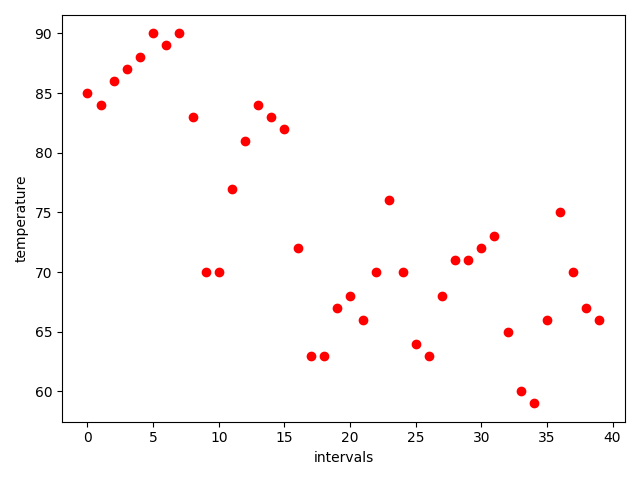
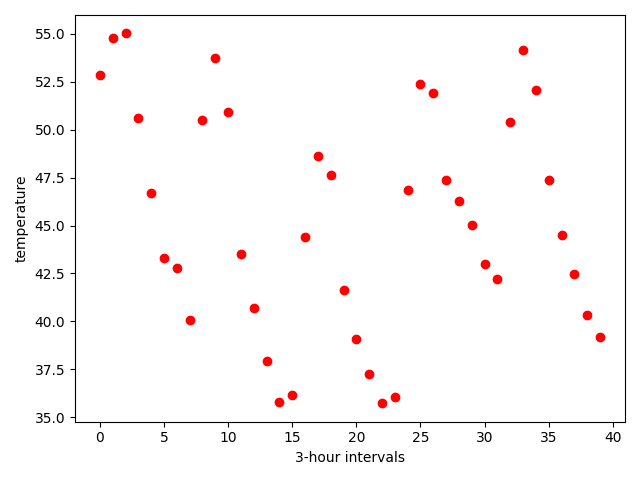
finished home display of weather

diff --git a/app/templates/home.html b/app/templates/home.html
@@ -12,15 +12,36 @@
               }
       </style>
   </head>
-  <body>
-    Welcome {{username}}
-    <ul class="flex bg-red-100 space-x-10 h-11 items-center">
-        <li><a class="flex hover:bg-green-100 p-3" href="/weather"> current weather <br></a></li>
+  <div>
+    
+  </div>
+  <body class="font-mono bg-blue-100">
+    <ul class="flex bg-indigo-200 space-x-10 h-12 items-center">
+        <li><a class="bg-green-100 flex hover:bg-green-100 p-3" href="/"> current weather <br></a></li>
         <li><a class="flex hover:bg-green-100 p-3" href="/history"> weather history <br> </a></li>
         <li><a class="flex hover:bg-green-100 p-3" href="/earthquake"> earthquake map<br></a></li>
         <li><a class="flex hover:bg-green-100 p-3" href="/user_history"> {{username}}'s request history </a></li>
         <li><a class="flex hover:bg-green-100 p-3" href="/logout">logout</a></li>
     </ul>
-    <img src="static/goo.png" alt="graph">
+    <h1 class="p-2 bg-indigo-300">Welcome, {{username}}</h1>
+    <div class="relative inline-block text-left">
+      <div class="group">
+        <button type="button" class="bg-stone-300 rounded-xl inline-flex justify-center item-center w-full m-2 px-4 py-2 hover:bg-gray-400">Weather Detail</button>
+        <div class="absolute left-0 w-40 mt-1 bg-green-100 divide-y divide-gray-100 rounded-xl opacity-0 invisible group-hover:opacity-100 group-hover:visible transition duration-300">
+          <div class="py-1">
+            <a href="/" class="block px-4 py-2 text-sm text-gray-700 hover:bg-green-200">5-day forecast</a>
+            <a href="/humidity" class="block px-4 py-2 text-sm text-gray-700 hover:bg-green-200">Humidity</a>
+            <a href="/percipitation" class="block px-4 py-2 text-sm text-gray-700 hover:bg-green-200">Percipitation</a>
+          </div>
+        </div>
+      </div>
+    </div>
+    <p class="mx-7 my-3 p-3 box-border inline-block bg-gray-300 rounded-xl">{{ option }} for {{ place }}</p>
+    <div class="flex justify-center">
+      <img class="border-4 border-stone-300" src="{{ img_link }}" alt="graph">
+    </div>
+    
+
+    <a href="/new_city"><button class="m-2 box-border p-2 border-3 bg-slate-100 rounded-xl hover:bg-fuchsia-300" type="submit">Enter New City</button></a>
   </body>
 </html>

diff --git a/app/templates/registration.html b/app/templates/registration.html
@@ -22,7 +22,7 @@
         {% endif %}
         {% endwith %}
         <div class= "h-screen flex items-center justify-center">
-          <div class="rounded-md box border h-50 w-50 p-4 bg-stone-300 border-20">
+          <div class="rounded-md box border h-50 w-50 p-4 bg-indigo-200 border-20">
             <form action="/auth_registration" method="POST">
               <div class="flex flex-col space-y-2">
                 <label for="username">Username:</label>

diff --git a/app/templates/login.html b/app/templates/login.html
@@ -22,7 +22,7 @@
         {% endif %}
         {% endwith %}
         <div class= "h-screen flex items-center justify-center">
-          <div class="rounded-md box border h-50 w-50 p-4 bg-stone-300 border-20">
+          <div class="rounded-md box border h-50 w-50 p-4 bg-indigo-200 border-20">
             <form action="/auth_login" method="POST">
               <div class="flex flex-col space-y-2">
                 <label for="username">Username:</label>

diff --git a/app/__init__.py b/app/__init__.py
@@ -2,7 +2,7 @@
 # SoftDev
 # P01: ArRESTed Development
 # 2024-12-17
-# Time Spent: x hours
+# Time Spent: alot
 
 import random
 import os
@@ -16,6 +16,7 @@ import json
 import matplotlib
 matplotlib.use('Agg')
 import matplotlib.pyplot as plt
+import plot
 
 DB_FILE = "db.py"
 app = Flask(__name__)
@@ -35,7 +36,7 @@ def home():
         print(session['lon'])
         print(session['lat'])
 
-        #generate plot
+        #populate db
         beegFile = APIs.fetch_openweather(session['lat'], session['lon'])
         weatherData = beegFile['list']
         db.resetWeather()
@@ -43,19 +44,12 @@ def home():
         for row in weatherData:
             db.logWeather(num, session['username'], session['place'], session['lat'], session['lon'], float(row['main']['temp']), float(row['main']['humidity']), row['weather'][0]['main'], float(row['wind']['speed']))
             num+=1
-        plt.figure()
-        a = db.getWeather()
-        for row in a:
-            x = row[0]
-            y = row[5]
-            plt.plot(x,y,'ro-')
-        plt.xlabel("intervals")
-        plt.ylabel("temperature")
-        plt.tight_layout()
+        
+        #generates plots
+        plot.forecast()
 
-        # plt.savefig('static/goo.png')
         print(db.getWeather())
-        return render_template("home.html", username = session['username'])
+        return render_template("home.html", username = session['username'], option="5-day forecast", place = session['place'], img_link="static/goo.png")
     else:
         return redirect("/login")
 #In home, if you receive some input, it should redirect into /view_city page
@@ -101,7 +95,7 @@ def entry():
             session['place'] = city_detail[0]['name']
             session['lat'] = float(city_detail[0]['lat'])
             session['lon'] = float(city_detail[0]['lon'])
-            return render_template("home.html", username = session['username'])
+            return render_template("home.html", username = session['username'], place = session['place'])
         else:
             #if there are multiple cities with same name
             all_city = ""
@@ -172,6 +166,14 @@ def logout():
     session.pop('place', None)
     return redirect("/login")
 
+@app.route("/new_city")
+def new_city():
+    session.pop('place', None)
+    session.pop('lat', None)
+    session.pop('lon', None)
+    return redirect("/entry")
+
+"""
 @app.route("/weather")
 def weather():
     '''
@@ -193,7 +195,7 @@ def weather():
     a = db.getWeather()
     for row in a:
         x = row[0]
-        y = row[5]
+        y = row[4]
         plt.plot(x,y,'ro-')
     plt.xlabel("intervals")
     plt.ylabel("temperature")
@@ -201,8 +203,8 @@ def weather():
 
     plt.savefig('static/goo.png')
     print(db.getWeather())
-    return render_template("view.html")
-
+    return render_template("view.html", place = session['place'])
+"""
 
 # # This should contain a button to redirect into /history page
 @app.route("/history")
@@ -213,6 +215,18 @@ def history():
 @app.route("/user_history")
 def user_history():
     return render_template('user_history.html')
+
+@app.route("/humidity")
+def humidity():
+    plot.humidity()
+    return render_template("home.html", username = session['username'], option="5-day humidity", place = session['place'], img_link="static/foo.png")
+
+@app.route("/percipitation")
+def percipitation():
+    plot.percipitation()
+    return render_template("home.html", username = session['username'], option="5-day percipitation", place = session['place'], img_link="static/boo.png")
+
+
 
 if __name__ == '__main__':
     app.debug = True

diff --git a/app/plot.py b/app/plot.py
@@ -1,0 +1,40 @@
+import matplotlib
+matplotlib.use('Agg')
+import matplotlib.pyplot as plt
+import db
+
+def forecast():
+    plt.figure()
+    a = db.getWeather()
+    for row in a:
+        x = row[0]
+        y = row[4]
+        plt.plot(x,y,'ro-')
+    plt.xlabel("3-hour intervals")
+    plt.ylabel("temperature")
+    plt.tight_layout()
+    plt.savefig('static/goo.png')
+
+def humidity():
+    plt.figure()
+    a = db.getWeather()
+    for row in a:
+        x = row[0]
+        y = row[5]
+        plt.plot(x,y,'bo-')
+    plt.xlabel("3-hour intervals")
+    plt.ylabel("humidity")
+    plt.tight_layout()
+    plt.savefig('static/foo.png')
+
+def percipitation():
+    plt.figure()
+    a = db.getWeather()
+    for row in a:
+        x = row[0]
+        y = row[7]
+        plt.plot(x,y,'go-')
+    plt.xlabel("3-hour intervals")
+    plt.ylabel("humidity")
+    plt.tight_layout()
+    plt.savefig('static/boo.png')

diff --git a/app/db.py b/app/db.py
@@ -2,7 +2,7 @@
 # SoftDev
 # P01: ArRESTed Development
 # 2024-12-17
-# Time Spent: x hours
+# Time Spent: too many hours
 
 import sqlite3
 import csv
